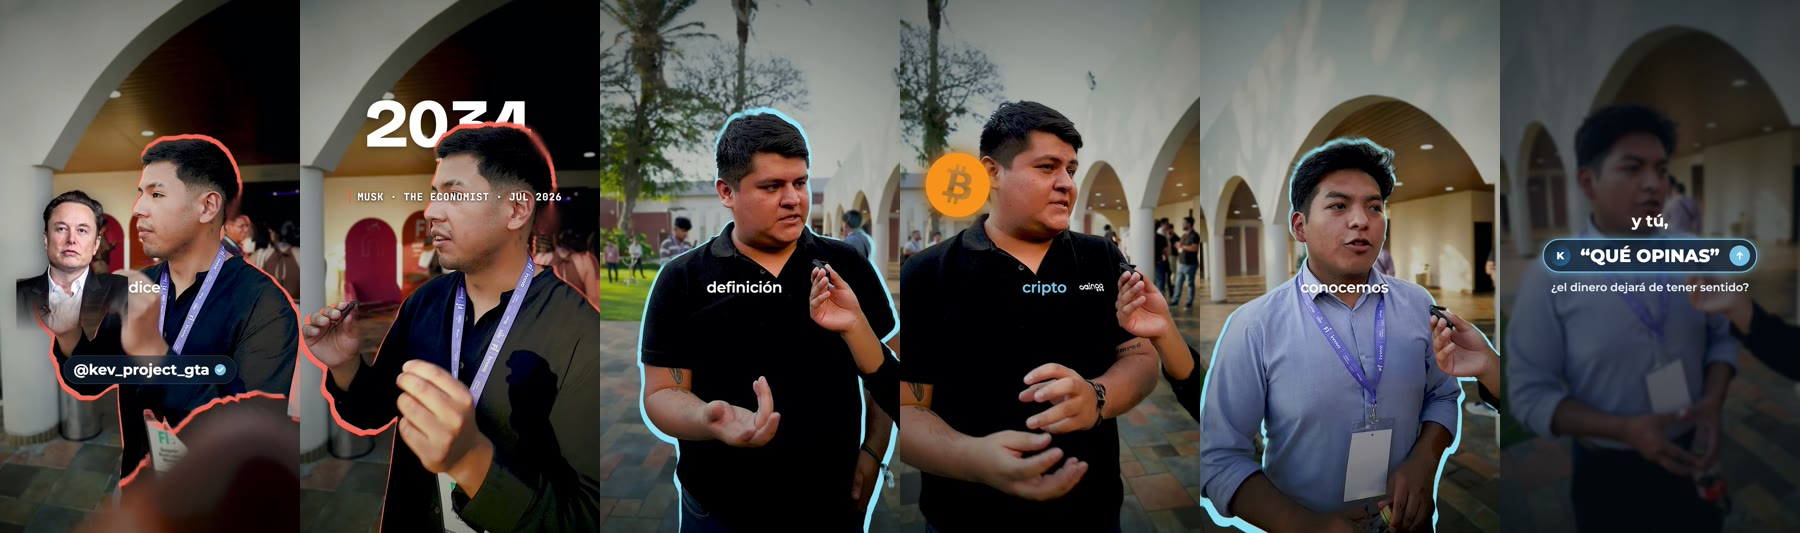
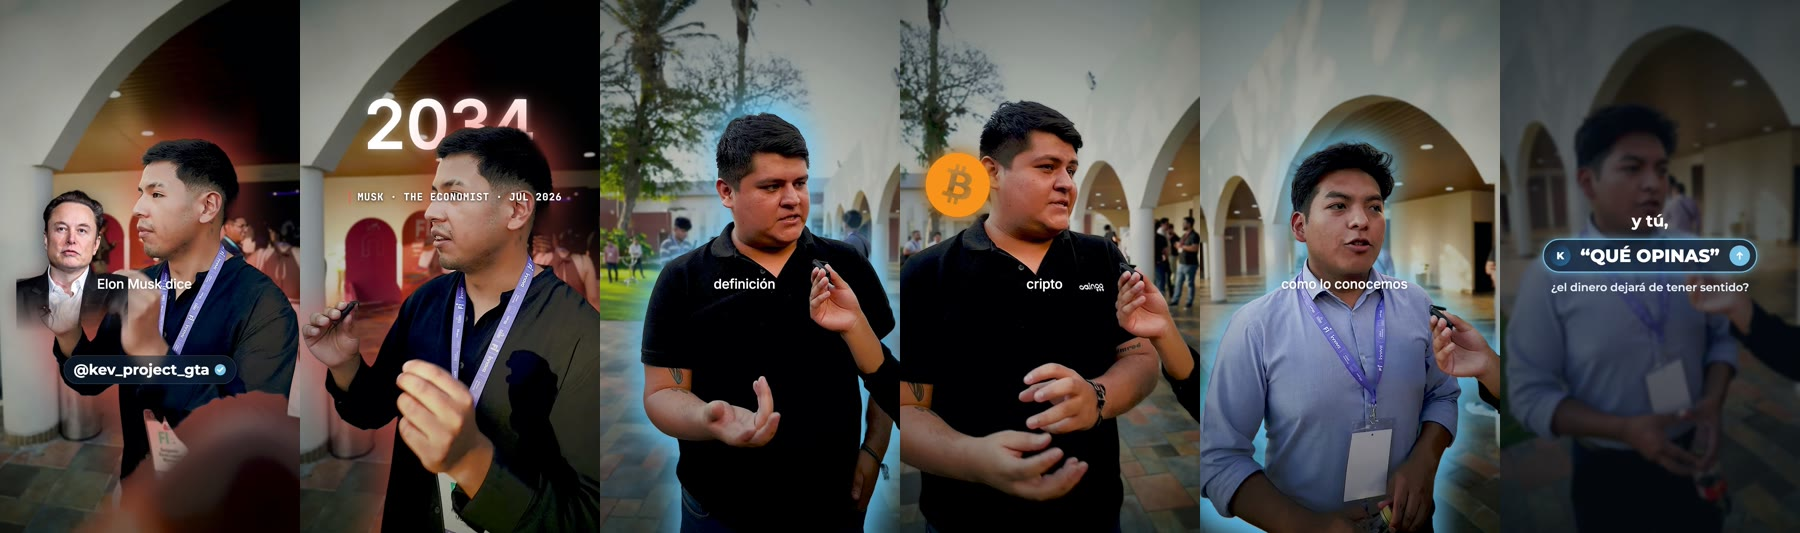
Fábrica nº5: aura suave y subtítulos de 2–3 palabras en Inter, como el original

diff --git a/lib/fabrica-reels.ts b/lib/fabrica-reels.ts
@@ -1096,8 +1096,8 @@ export const FABRICA_BASE: ContenidoFabrica = {
           imagenes: ["/fabrica/ia/ia5-cuadros-v1.jpg"],
           ancho: true,
           puntos: [
-            "Aura de color detrás de la persona, siguiendo su silueta: rojo para el problema / el antes y celeste para el resultado (ellos: rojo, azul y verde; el verde no es de la marca).",
-            "Subtítulo chico de 1–2 palabras, blanco, con las palabras clave en celeste (ellos: amarillo).",
+            "Aura de color detrás de la persona: una neblina suave y desvanecida (no un borde) que tiñe un poco el fondo alrededor; rojo para el problema / el antes y celeste para el resultado (ellos: rojo, azul y verde; el verde no es de la marca).",
+            "Subtítulo chico de 2–3 palabras en Inter de peso medio, blanco; en un tramo entero (la segunda parte) toda la frase cambia a celeste (ellos: amarillo). Las cifras grandes van en Inter con brillo blanco suave.",
             "Etiqueta @usuario con check en una pastilla oscura translúcida; tarjetas de perfil, cifras grandes con brillo («+100.000 seguidores»), mosaico de reels con sus vistas y un embudo de conversiones.",
             "Tomas rápidas detrás de cámara (el equipo grabando, las locaciones).",
             "Cierre como caja de comentario de Instagram con borde de color y botón de enviar: comenta “PALABRA”.",
@@ -1116,7 +1116,7 @@ export const FABRICA_BASE: ContenidoFabrica = {
             "Aura celeste en «va a cambiar su definición» y en el golpe; subtítulo de 1–2 palabras; cierre «comenta “QUÉ OPINAS”» como caja de comentario.",
             "Pasó la vista en TikTok, Reels y Shorts: nada tapado, margen y tamaño correctos.",
           ],
-          paraKev: "Archivo en el Drive «Pruebas edicion 100% Ai»: 1-dinero-2036-especial5-v1.mp4. Para que se luzca: un caso real con números (seguidores, ventas) y tomas detrás de cámara.",
+          paraKev: "Archivo en el Drive «Pruebas edicion 100% Ai»: 1-dinero-2036-especial5-v2.mp4. Para que se luzca: un caso real con números (seguidores, ventas) y tomas detrás de cámara.",
         },
       ],
     },
